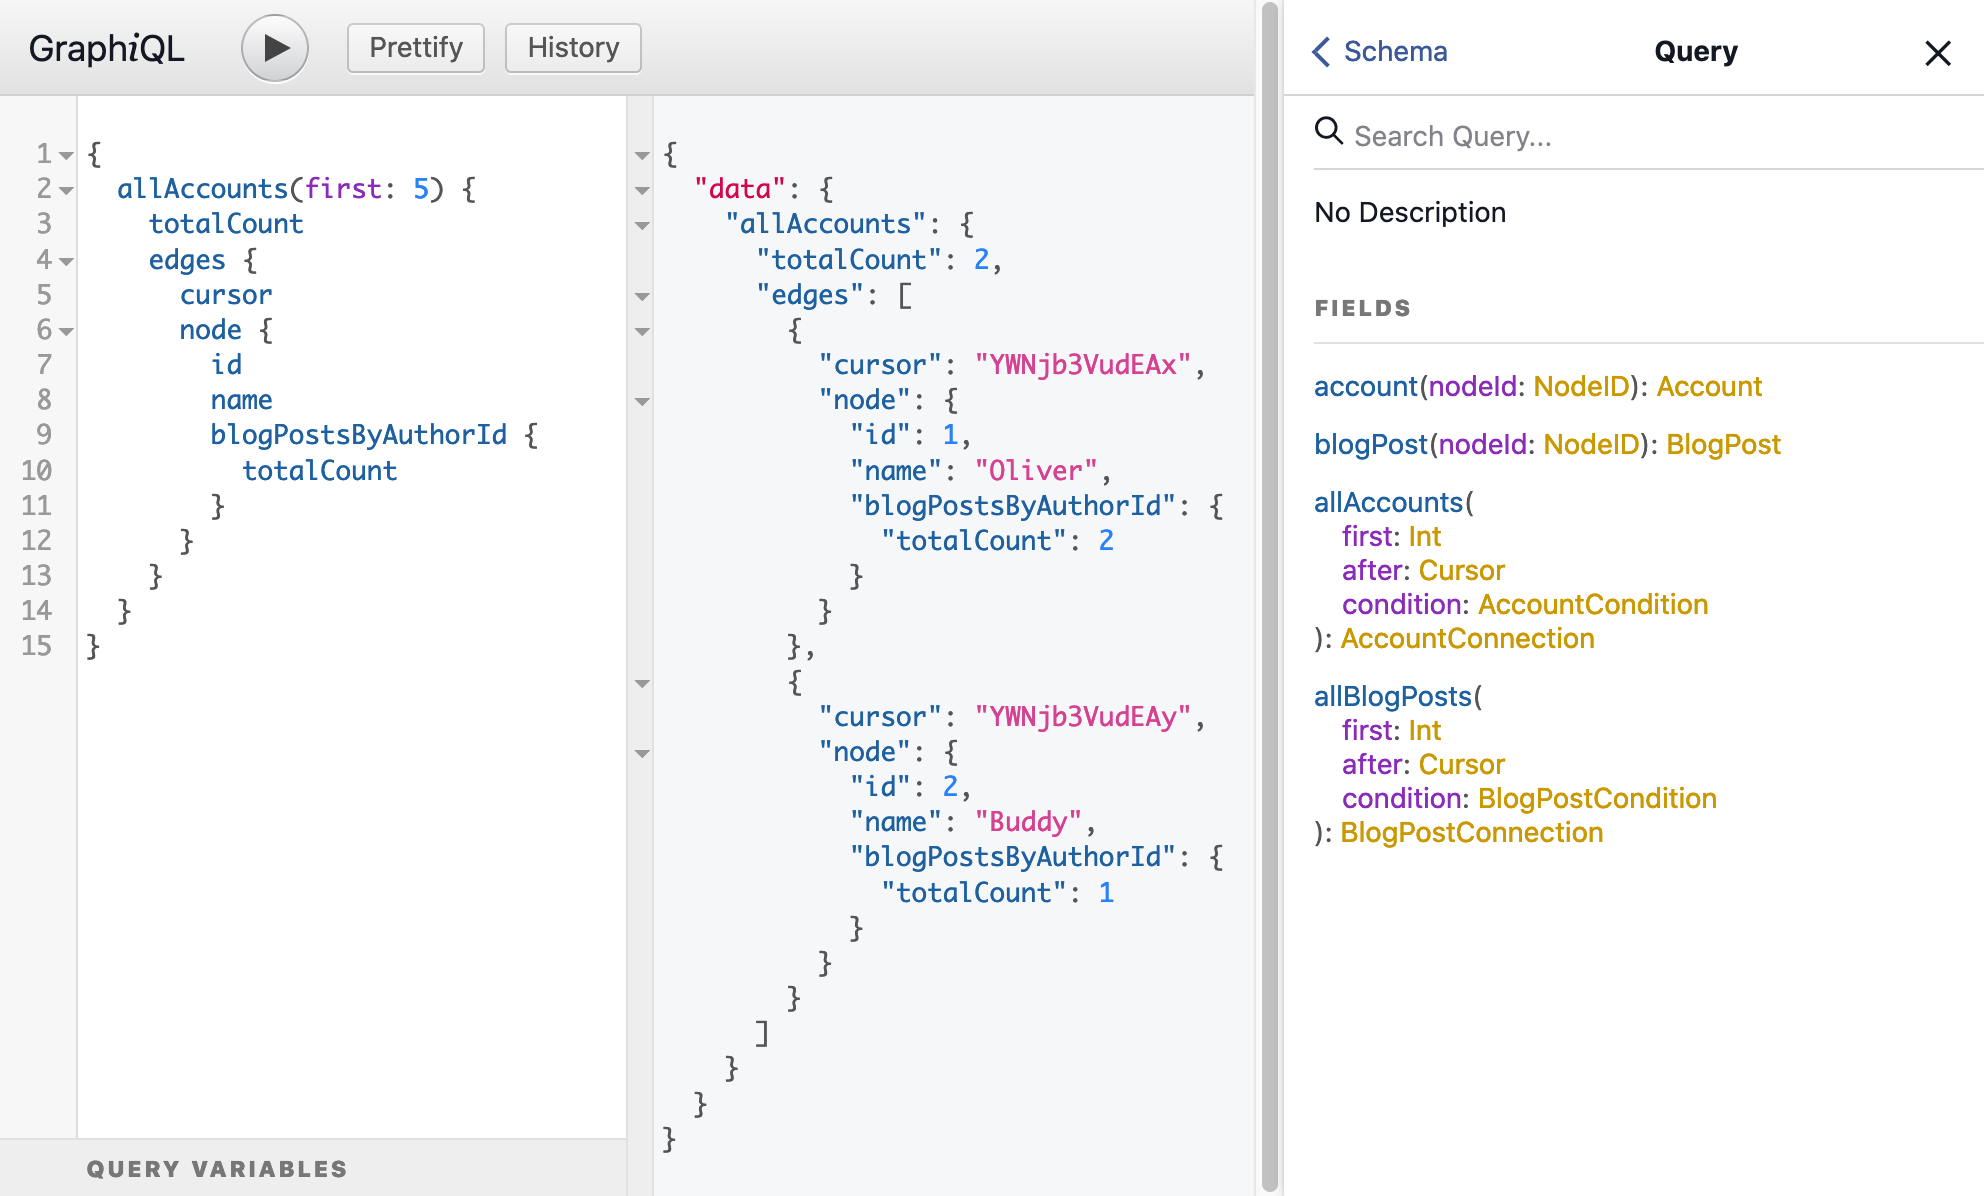
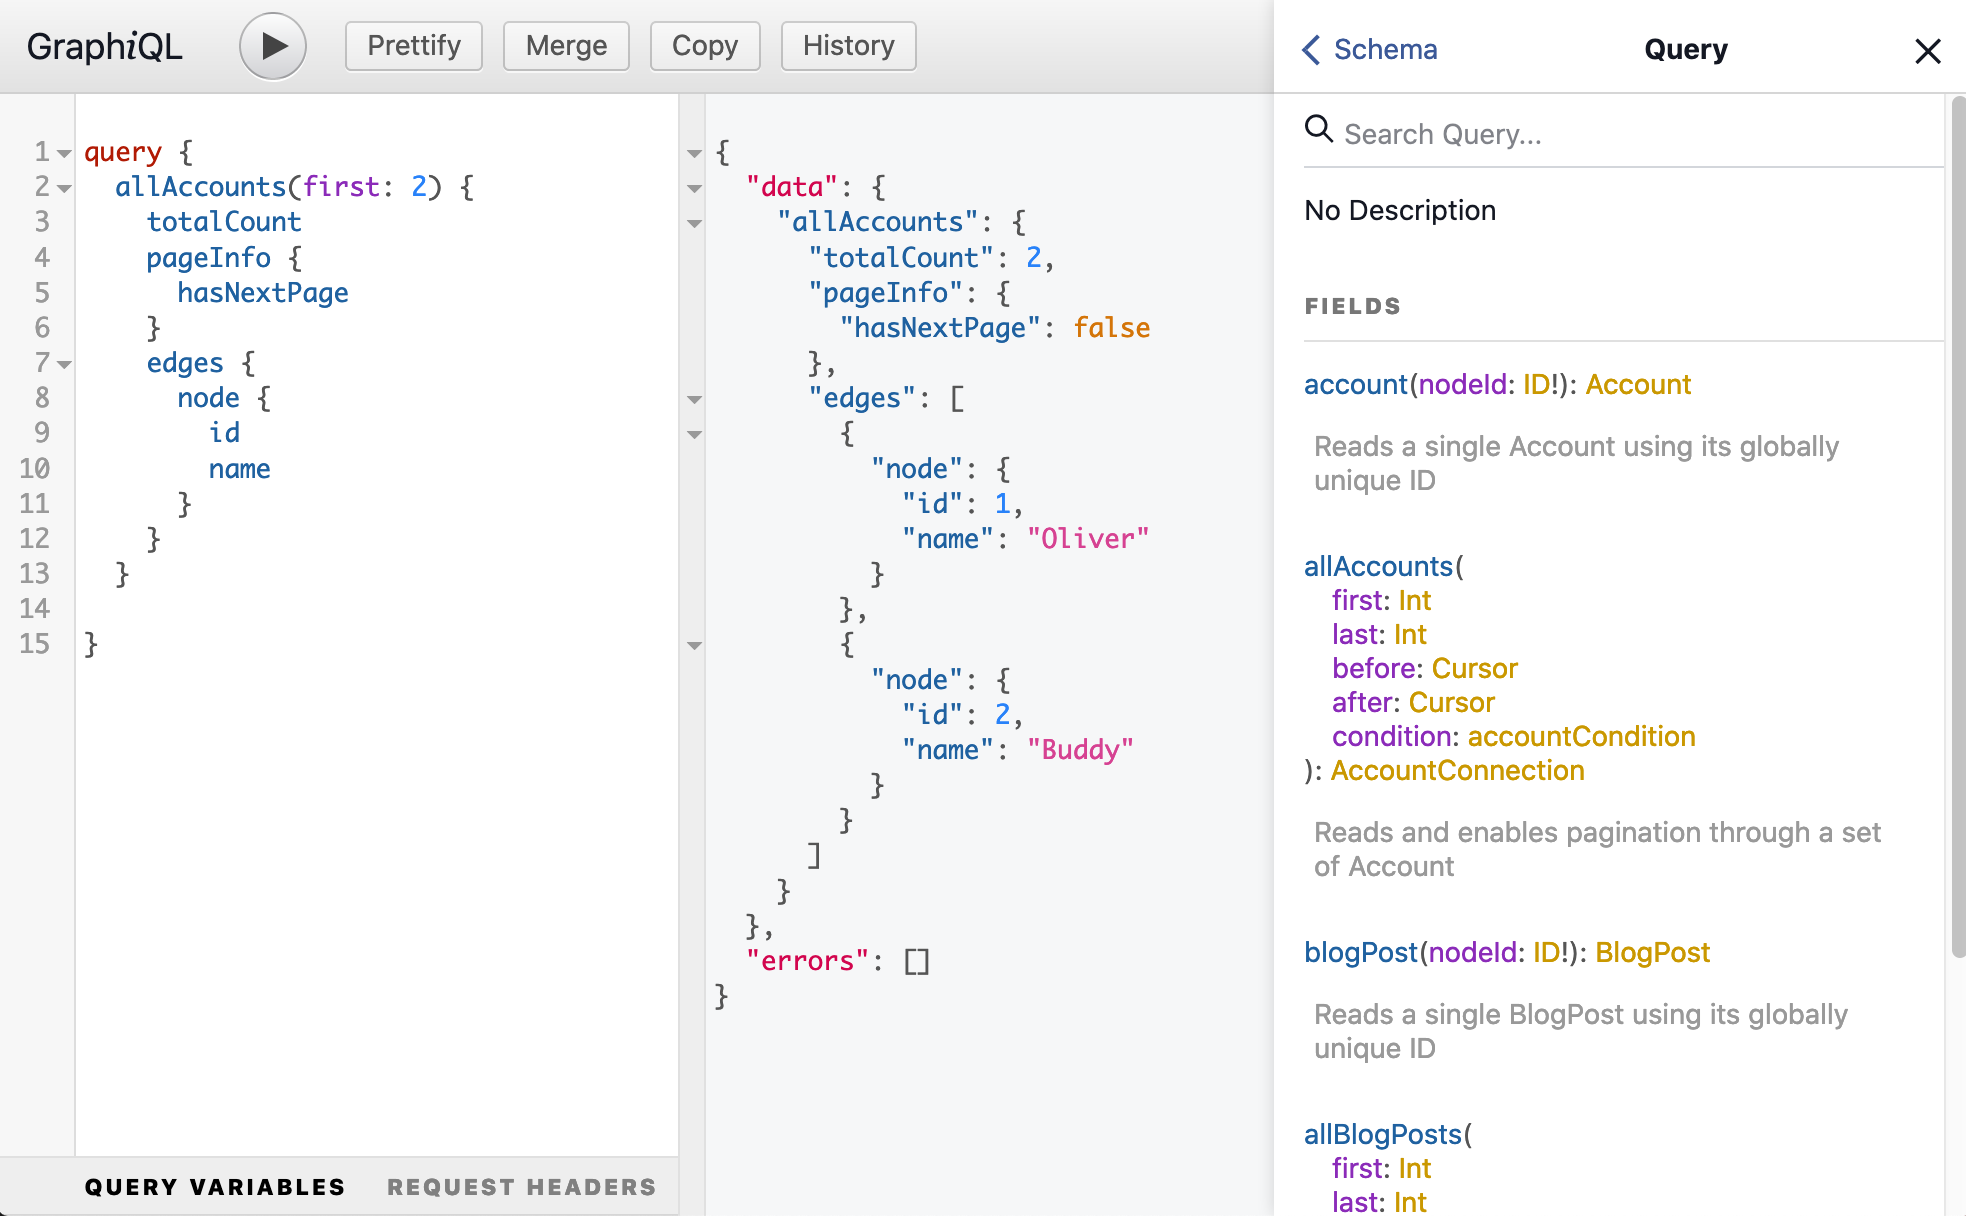
docs

diff --git a/src/nebulo/cli.py b/src/nebulo/cli.py
@@ -15,13 +15,13 @@ def main(**kwargs):
 
 @main.command()
 @click.option("-c", "--connection", default="sqlite:///")
-@click.option("-p", "--port", default=5018)
+@click.option("-p", "--port", default=5034)
 @click.option("-h", "--host", default="0.0.0.0")
 @click.option("-w", "--workers", default=1)
 @click.option("-s", "--schema", default="public")
 @click.option("--jwt-identifier", default=None)
 @click.option("--jwt-secret", default=None)
-@click.option("--reload/--no-reload", default=True)
+@click.option("--reload/--no-reload", default=False)
 def run(connection, schema, host, port, jwt_identifier, jwt_secret, reload, workers):
     """Run the GraphQL Server"""
     if reload and workers > 1:

diff --git a/src/nebulo/server/starlette.py b/src/nebulo/server/starlette.py
@@ -63,7 +63,6 @@ def create_app(
     _app = Starlette(
         routes=routes,
         middleware=middleware,
-        debug=True,
         exception_handlers={HTTPException: http_exception},
         on_startup=[database.connect],
         on_shutdown=[database.disconnect],

diff --git a/setup.py b/setup.py
@@ -2,7 +2,7 @@ from setuptools import find_packages, setup
 
 setup(
     name="nebulo",
-    version="0.1.3",
+    version="0.1.4",
     description="Nebulo: Reflect RDBMS to GraphQL API",
     author="Oliver Rice",
     author_email="oliver@oliverrice.com",

diff --git a/docs/quickstart.md b/docs/quickstart.md
@@ -4,7 +4,13 @@ For this example we're going to create a simple blogging platform. We'll start b
 
 ### Database Setup
 
-First, we need to define our database schema. We need a table for accounts, and another for blog posts. All blog posts must be associated with an author in the accounts table.
+If you don't have PostgreSQL installed locally, the following docker command creates an instance with the connection string used for the remainder of the quickstart guide.
+
+```shell
+docker run --rm --name nebulo_demo -p 4443:5432 -d -e POSTGRES_DB=nebulo_db -e POSTGRES_PASSWORD=password -e POSTGRES_USER=nebulo_user -d postgres
+```
+
+Next, we need to define our database schema. We need a table for accounts, and another for blog posts. All blog posts must be associated with an author in the accounts table. Additionally, we don't want to allow users to update or delete their blog post.
 
 ```sql
 -- blog_schema.sql
@@ -28,14 +34,19 @@ INSERT INTO account (id, name) VALUES
 (2, 'Buddy');
 
 INSERT INTO blog_post (id, author_id, title) VALUES
-(1, 1, 'First Post!'),
+(1, 1, 'First Post'),
 (2, 1, 'Sanitize all the things!'),
 (3, 2, 'To Bite or not to Bite');
+
+
+COMMENT ON TABLE blog_post IS E'@exclude update, delete';
 ```
+
+Note the comment to exclude updates and deletes from blog posts. The same comment format can also be applied to exclude columns from reflection e.g. password hashes.
 
 ### GraphQL Schema
 
-Now we're ready to reflect our new database schema into a GraphQL schema. The GraphQL schema document describes our API's types, fields, and relationships between entities. If you're new to GraphQL check out their [documentation](https://graphql.org/learn/) for more information.
+Now we're ready to reflect the database schema into a GraphQL schema. The GraphQL schema document describes our API's types, fields, and relationships between entities. If you're new to GraphQL check out their [documentation](https://graphql.org/learn/) for more information.
 
 To inspect the GraphQL schema
 ```shell
@@ -44,53 +55,53 @@ neb dump-schema -c postgresql://nebulo_user:password@localhost:4443/nebulo_db
 where the connection string provided by `-c` is in the format `postgresql://<user>:<password>@<host>:<port>/<database_name>`
 
 Which outputs the schema below
+
 ```graphql
-schema {
-  query: Query
+type Query {
+  """Reads a single Account using its globally unique ID"""
+  account(nodeId: ID!): Account
+
+  """Reads and enables pagination through a set of Account"""
+  allAccounts(first: Int, last: Int, before: Cursor, after: Cursor, condition: accountCondition): AccountConnection
+
+  """Reads a single BlogPost using its globally unique ID"""
+  blogPost(nodeId: ID!): BlogPost
+
+  """Reads and enables pagination through a set of BlogPost"""
+  allBlogPosts(first: Int, last: Int, before: Cursor, after: Cursor, condition: blogPostCondition): BlogPostConnection
+}
+
+type Mutation {
+  """Creates a single Account."""
+  createAccount(input: CreateAccountInput!): CreateAccountPayload
+
+  """Updates a single Account using its globally unique id and a patch."""
+  updateAccount(input: UpdateAccountInput!): UpdateAccountPayload
+
+  """Delete a single Account using its globally unique id and a patch."""
+  deleteAccount(input: DeleteAccountInput!): DeleteAccountPayload
+
+  """Creates a single BlogPost."""
+  createBlogPost(input: CreateBlogPostInput!): CreateBlogPostPayload
 }
 
 type Account implements NodeInterface {
-  nodeId: NodeID!
+  nodeId: ID!
   id: Int!
-  blogPostsByAuthorId(first: Int, after: Cursor, condition: BlogPostCondition): BlogPostConnection
   name: String!
-  createdAt: String!
+  createdAt: DateTime!
+
+  """Reads and enables pagination through a set of BlogPost"""
+  blogPostsByIdToAuthorId(first: Int, last: Int, before: Cursor, after: Cursor, condition: blogPostCondition): BlogPostConnection!
 }
 
-input AccountCondition {
-  id: Int
-  name: String
-  createdAt: String
+"""An object with a nodeId"""
+interface NodeInterface {
+  """The global id of the object."""
+  nodeId: ID!
 }
 
-type AccountConnection {
-  edges: [AccountEdge!]!
-  pageInfo: PageInfo!
-  totalCount: Int!
-}
-
-type AccountEdge {
-  cursor: Cursor
-  node: Account
-}
-
-type BlogPost implements NodeInterface {
-  nodeId: NodeID!
-  id: Int!
-  accountByAuthorId: Account
-  title: String!
-  body: String
-  authorId: Int
-  createdAt: String!
-}
-
-input BlogPostCondition {
-  id: Int
-  title: String
-  body: String
-  authorId: Int
-  createdAt: String
-}
+scalar DateTime
 
 type BlogPostConnection {
   edges: [BlogPostEdge!]!
@@ -105,28 +116,11 @@ type BlogPostEdge {
 
 scalar Cursor
 
-scalar NodeID
 
-interface NodeInterface {
-  nodeId: NodeID!
-}
-
-type PageInfo {
-  hasNextPage: Boolean!
-  hasPreviousPage: Boolean!
-  startCursor: Cursor!
-  endCursor: Cursor!
-}
-
-type Query {
-  account(nodeId: NodeID): Account
-  blogPost(nodeId: NodeID): BlogPost
-  allAccounts(first: Int, after: Cursor, condition: AccountCondition): AccountConnection
-  allBlogPosts(first: Int, after: Cursor, condition: BlogPostCondition): BlogPostConnection
-}
+<abridged output>
 ```
 
-Notice that our API detected the foreign key relationship between `Account` and `BlogPost` and created `blogPostsByAuthorId` and `accountByAuthorId` on their base types respectively.
+Notice that our API detected the foreign key relationship between `Account` and `BlogPost` and created `blogPostsByIdToAuthorId` and `accountByAuthorIdToId` on their base types respectively.
 
 
 ### Query the API
@@ -137,7 +131,7 @@ To start the API server, execute `neb run` passing in a connection to the databa
 neb run -c postgresql://nebulo_user:password@localhost:4443/nebulo_db
 ```
 
-In addition to handling GraphQL requests, nebulo also serves the [GraphiQL explorer](https://github.com/graphql/graphiql) locally at [http://localhost:5018/graphql](http://localhost:5018/graphql).
+In addition to handling GraphQL requests, nebulo also serves the [GraphiQL explorer](https://github.com/graphql/graphiql) locally at [http://localhost:5034/graphiql](http://localhost:5034/graphiql).
 
 
 ![graphiql image](images/graphiql.png)

diff --git a/docs/performance.md b/docs/performance.md
@@ -1,9 +1,73 @@
 # Performance
 
-*Page Not Complete*
-
-**Key Points:**
+**Performance Enabling Features:**
 
 * All queries are handled in a single round-trip to the database. No [N+1 problems](https://stackoverflow.com/questions/97197/what-is-the-n1-selects-problem-in-orm-object-relational-mapping) here!
 * SQL queries only fetch requested fields
 * SQL queries return JSON which significantly reduces database IO when joins are present
+- Fully async / built on [starlette](https://github.com/encode/starlette)
+
+**Benchmarks**
+
+Performance depends on netowrk, number of workers, log level etc. Despite all that, here are rough figures with postgres and the webserver running on a mid-tier 2017 Macbook Pro.
+
+```text
+Benchmarking 0.0.0.0 (be patient)
+
+
+Server Software:        uvicorn
+Server Hostname:        0.0.0.0
+Server Port:            5034
+
+Document Path:          /
+Document Length:        310 bytes
+
+Concurrency Level:      10
+Time taken for tests:   5.571 seconds
+Complete requests:      1000
+Failed requests:        0
+Total transferred:      436000 bytes
+Total body sent:        245000
+HTML transferred:       310000 bytes
+Requests per second:    179.49 [#/sec] (mean)
+Time per request:       55.712 [ms] (mean)
+Time per request:       5.571 [ms] (mean, across all concurrent requests)
+Transfer rate:          76.43 [Kbytes/sec] received
+                        42.95 kb/s sent
+                        119.37 kb/s total
+
+Connection Times (ms)
+              min  mean[+/-sd] median   max
+Connect:        0    0   0.0      0       0
+Processing:    17   55  18.7     52      98
+Waiting:       17   55  18.7     51      98
+Total:         18   55  18.7     52      98
+
+Percentage of the requests served within a certain time (ms)
+  50%     52
+  66%     60
+  75%     65
+  80%     69
+  90%     80
+  95%     90
+  98%     94
+  99%     95
+ 100%     98 (longest request)
+```
+
+So approximately 180 requests/second responding in sub 100 milliseconds.
+
+Note that under normal load, response times are significantly faster.
+
+```text
+Percentage of the requests served within a certain time (ms)
+  50%     17
+  66%     19
+  75%     19
+  80%     20
+  90%     21
+  95%     24
+  98%     26
+  99%     30
+ 100%     38 (longest request)
+```

diff --git a/README.md b/README.md
@@ -32,9 +32,8 @@
 
 [Reflect](https://en.wikipedia.org/wiki/Reflection_(computer_programming)) a highly performant [GraphQL](https://graphql.org/learn/) API from an existing [PostgreSQL](https://www.postgresql.org/) database.
 
-Nebulo is a python library for building GraphQL APIs on top of PostgreSQL. It has a command line interface for reflecting databases wtih 0 code, and can also be added to existing [SQLAlchemy](https://www.sqlalchemy.org/) projects.
+Nebulo is a python library for building GraphQL APIs on top of PostgreSQL. It has a command line interface for reflecting databases wtih 0 code or can be added to existing [SQLAlchemy](https://www.sqlalchemy.org/) projects (pending documentation).
 
-In contrast to existing options in the python ecosystem, Nebulo optimizes underlying SQL queries to solve the [N+1 query problem](https://stackoverflow.com/questions/97197/what-is-the-n1-selects-problem-in-orm-object-relational-mapping) and minimize database IO. The result is a blazingly fast API with consistent performance for arbitrarily nested queries.
 
 **WARNING: Pre-Alpha Software**
 
@@ -45,15 +44,14 @@ First, install nebulo
 $ pip install nebulo
 ```
 
-Then point the nebulo CLI at an existing  PostgreSQL database using connection string format `postgresql://<user>:<password>@<host>:<port>/<database_name>`
+Then point the CLI at an existing  PostgreSQL database using connection string format `postgresql://<user>:<password>@<host>:<port>/<database_name>`
 ```shell
 neb run -c postgresql://nebulo_user:password@localhost:4443/nebulo_db
 ```
 
+Visit your shiny new GraphQL API at [http://localhost:5034/graphiql](http://localhost:5034/graphiql)
 
-Visit your shiny new GraphQL API at [http://localhost:5018/graphql](http://localhost:5018/graphql)
-
-![graphiql image](docs/images/graphiql.png)
+![graphiql image](images/graphiql.png)
 
 Next, check out the [docs](https://olirice.github.io/nebulo/introduction/) guide for a small end-to-end example.
 

diff --git a/docs/index.md b/docs/index.md
@@ -32,9 +32,8 @@
 
 [Reflect](https://en.wikipedia.org/wiki/Reflection_(computer_programming)) a highly performant [GraphQL](https://graphql.org/learn/) API from an existing [PostgreSQL](https://www.postgresql.org/) database.
 
-Nebulo is a python library for building GraphQL APIs on top of PostgreSQL. It has a command line interface for reflecting databases wtih 0 code, and can also be added to existing [SQLAlchemy](https://www.sqlalchemy.org/) projects.
+Nebulo is a python library for building GraphQL APIs on top of PostgreSQL. It has a command line interface for reflecting databases wtih 0 code or can be added to existing [SQLAlchemy](https://www.sqlalchemy.org/) projects (pending documentation).
 
-In contrast to existing options in the python ecosystem, Nebulo optimizes underlying SQL queries to solve the [N+1 query problem](https://stackoverflow.com/questions/97197/what-is-the-n1-selects-problem-in-orm-object-relational-mapping) and minimize database IO. The result is a blazingly fast API with consistent performance for arbitrarily nested queries.
 
 **WARNING: Pre-Alpha Software**
 
@@ -45,13 +44,12 @@ First, install nebulo
 $ pip install nebulo
 ```
 
-Then point the nebulo CLI at an existing  PostgreSQL database using connection string format `postgresql://<user>:<password>@<host>:<port>/<database_name>`
+Then point the CLI at an existing  PostgreSQL database using connection string format `postgresql://<user>:<password>@<host>:<port>/<database_name>`
 ```shell
 neb run -c postgresql://nebulo_user:password@localhost:4443/nebulo_db
 ```
 
-
-Visit your shiny new GraphQL API at [http://localhost:5018/graphql](http://localhost:5018/graphql)
+Visit your shiny new GraphQL API at [http://localhost:5034/graphiql](http://localhost:5034/graphiql)
 
 ![graphiql image](images/graphiql.png)
 

diff --git a/docs/authentication.md b/docs/authentication.md
@@ -1,0 +1,10 @@
+## Authentication
+
+The approach to authentication and row level security were shamelessly borrowed from the [postgraphile](https://www.graphile.org/) project, a similar (but much more mature) PostgreSQL to GraphQL project written in javascript.
+
+
+Please see [their security documentation](https://www.graphile.org/postgraphile/security/) for instructions on setting up secure auth for api users.
+
+
+Note that JWT identifier and JWT secret can be passed to the nebulo CLI via `--jwt-identifier "public.my_jwt"` and `--jwt-secret "my_jwt_secret"` to cause functions returning the JWT type to reflect correctly.
+

diff --git a/docs/supported_entities.md b/docs/supported_entities.md
@@ -1,0 +1,7 @@
+# Supported Entities
+
+There is automatic reflection support for:
+
+- Tables
+- Views
+- Functions
